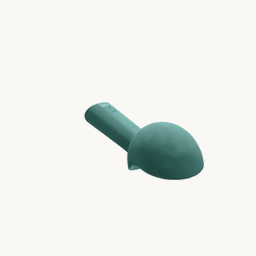
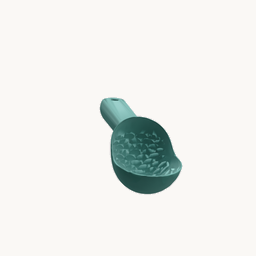
Pose overrides: icecream_scoop 000, large_peg 002, lemon_squeezer 003, light_green_basket 001; v16

Changed region(s): [[0.3125, 0.375, 0.8125, 0.7812]]

diff --git a/docs/gallery.html b/docs/gallery.html
@@ -222,7 +222,7 @@
         card.onkeydown = (e) => { if (e.key === 'Enter') go(); };
 
         const thumb = obj.thumb
-          ? `<img src="objects/${obj.id}/thumb.png?v=15" alt="${escapeHtml(obj.label)}" loading="lazy" onerror="this.parentElement.innerHTML='<div class=placeholder>&#9645;</div>'">`
+          ? `<img src="objects/${obj.id}/thumb.png?v=16" alt="${escapeHtml(obj.label)}" loading="lazy" onerror="this.parentElement.innerHTML='<div class=placeholder>&#9645;</div>'">`
           : '<div class="placeholder">&#9645;</div>';
         card.innerHTML = `
           <div class="frame">${thumb}</div>

diff --git a/wiki/gallery.html b/wiki/gallery.html
@@ -222,7 +222,7 @@
         card.onkeydown = (e) => { if (e.key === 'Enter') go(); };
 
         const thumb = obj.thumb
-          ? `<img src="objects/${obj.id}/thumb.png?v=15" alt="${escapeHtml(obj.label)}" loading="lazy" onerror="this.parentElement.innerHTML='<div class=placeholder>&#9645;</div>'">`
+          ? `<img src="objects/${obj.id}/thumb.png?v=16" alt="${escapeHtml(obj.label)}" loading="lazy" onerror="this.parentElement.innerHTML='<div class=placeholder>&#9645;</div>'">`
           : '<div class="placeholder">&#9645;</div>';
         card.innerHTML = `
           <div class="frame">${thumb}</div>

diff --git a/wiki/render_thumbnails.py b/wiki/render_thumbnails.py
@@ -47,6 +47,10 @@ POSE_OVERRIDE = {
     "green_attached_container": "008",
     "green_lamp": "001",
     "green_soap_dispenser": "002",
+    "icecream_scoop": "000",   # 002 was a duplicate pose
+    "large_peg": "002",        # 017 was an impossible pose
+    "lemon_squeezer": "003",
+    "light_green_basket": "001",
 }
 
 # Per-object camera-direction override (object frame, +z up), for objects whose
